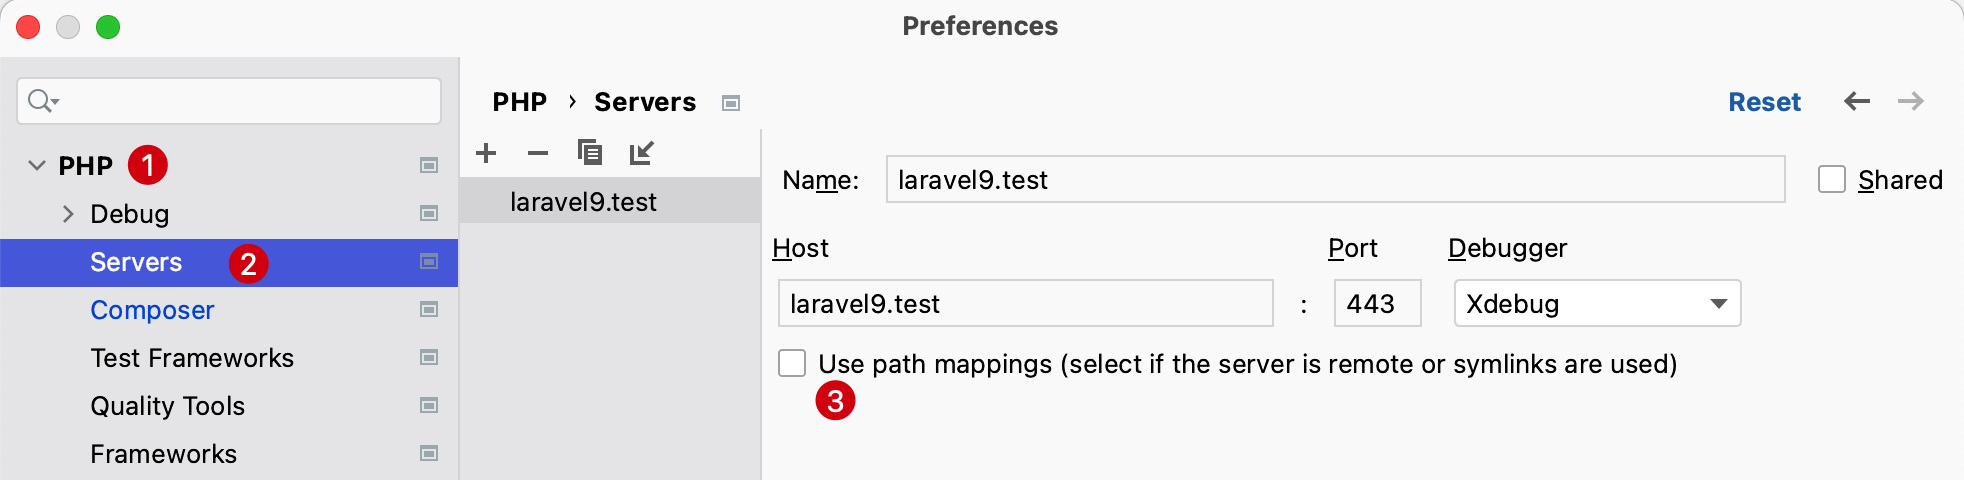
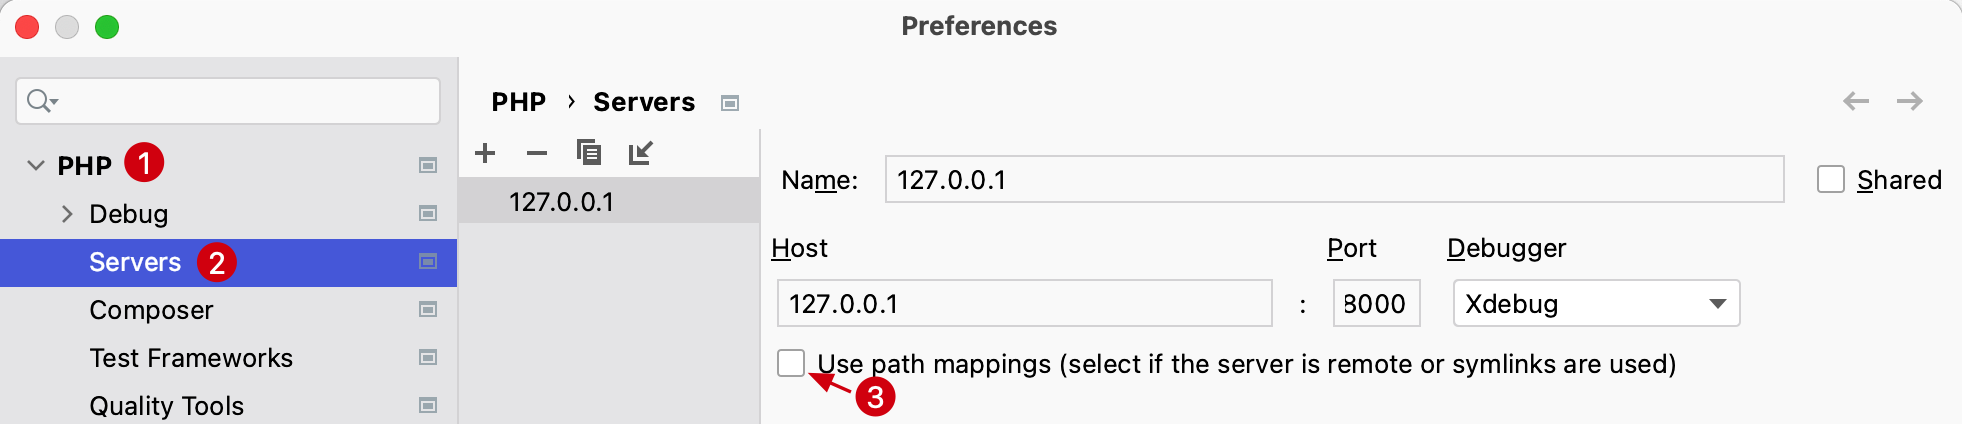
Update xdebug for laravel config

diff --git a/docs/guide/xdebug-for-laravel.md b/docs/guide/xdebug-for-laravel.md
@@ -1,6 +1,9 @@
 # Laravel 项目中使用 Xdebug
 
-PhpStorm 内置 Debug 调试支持 Xdebug 和 Zend Debugger，下面演示在 PhpStorm 中配合本地 PHP 开发环境使用 Xdebug 调试 Laravel 项目的流程。
+PhpStorm 内置 Debug 调试支持 Xdebug 和 Zend Debugger，下面演示在 PhpStorm 中配合本地 PHP 开发环境使用 Xdebug 调试 Laravel
+项目的流程。
+
+分别采用配置 `PHP Web Page` 和使用浏览器扩展或URL传递 `XDEBUG_SESSION` 参数的方式对项目进行调试。
 
 一些相关网址：
 
@@ -14,7 +17,120 @@ PhpStorm 内置 Debug 调试支持 Xdebug 和 Zend Debugger，下面演示在 Ph
     - [Edge](https://microsoftedge.microsoft.com/addons/detail/xdebug-helper/ggnngifabofaddiejjeagbaebkejomen)
 - [YouTube - Debugging With PhpStorm And Xdebug | Christoph Rumpel | phpday 2021](https://youtu.be/MFAfbNx4apA)
 
-## 预配置
+以下根据不同的请求方式分为两种不同的编辑器配置演示在 Laravel 项目中对 Xdebug 的支持。
+
+## 调试 GET 请求
+
+### 示例代码
+
+- 路由文件 `web`
+  ```php
+    <?php
+    use Illuminate\Support\Facades\Route;
+    use App\Http\Controllers\PostsController;
+
+    Route::post('/posts', [PostController::class, 'index']);  
+  ```
+
+- 仓库文件 `PostsRepository`
+    ```php
+    <?php
+
+    namespace App\Http\Controllers;
+
+    use App\Repositories\PostsRepository;
+
+    class PostController extends Controller
+    {
+        protected PostsRepository $postRepository;
+
+        public function __construct(PostsRepository $postsRepository)
+        {
+            $this->postRepository = $postsRepository;
+        }
+
+        public function index()
+        {
+            $posts = $this->postRepository->all();
+
+            return view('posts.index', compact('posts'));
+        }
+    }
+    ```
+- 控制器 `PostsController`
+    ```php
+    <?php
+
+    namespace App\Repositories;
+
+    class PostsRepository
+    {
+        public function all(): ?array
+        {
+            if (true) {
+                return null;
+            }
+
+            return ['post 1', 'post 2'];
+        }
+    }
+ 
+    ```
+
+站点调试 GET 请求相对配置较简单，可以通过一下流程：
+
+1. 安装并配置 Xdebug 3 到 PHP
+    1. 安装
+       首先，确保在本地 PHP 安装了 xdebug，使用命令 `php --version`，比如：
+
+       ![](./images/xdebug-for-laravel/show-xdebug-extension.png)
+
+       如果输出信息中没有看到 Xdebug 相关的信息，请来到 [Xdebug 安装向导](https://xdebug.org/wizard) 复制当前使用的 PHP
+       的 `phpinfo()` 并粘贴到向导中，按照说明进行操作。
+
+    2. 配置 Xdebug 3
+
+       通过 `php --ini`命令在输出中定位到 xdebug 配置文件路径或者直接将下面的配置放到 `php.ini` 配置中。
+       ```php
+       [opcache]
+       ;extension_dir=/opt/homebrew/lib/php/pecl/20210902
+       zend_extension="xdebug.so"
+       xdebug.mode=debug
+       xdebug.client_host=127.0.0.1
+       xdebug.client_port=9003
+       xdebug.log="/tmp/xdebug.log"
+       ```
+    3. 检查当前配置的PHP是否跟Laravel项目使用的PHP一致
+
+       比如，可以在Laravel 项目中打印一个 `phpinfo();` 检查一下 xdebug 配置
+
+2. 在编辑器顶部菜单选择 `Run` -> `Edit Configurations...` 打开编辑配置弹出窗
+3. 点击左上角的 + 号添加一个 **PHP Web Page**
+   ![](./images/xdebug-for-laravel/add-new-php-web-page-server-configuration.png)
+4. 在配置项中的 Server 段添加一个新的web服务配置，包括名称、URL和端口，以及Debugger选择 Xdebug
+   ![](./images/xdebug-for-laravel/add-new-server-configuration.png)
+5. 再回到 **PHP Web Page** 配置，将上一步配置的 Server选择上，并补充名称、起始URL等
+   ![](./images/xdebug-for-laravel/add-new-debug-configuration.png)
+
+6. 开始调试之前，在需要代码断点处添加断点。然后来到编辑器顶部菜单选择 `Run` -> `Debug '/posts'` 或者直接使用快捷键 Ctrl D。
+
+   可以看到浏览器上打开了对应的URL `http://127.0.0.1:8000/posts?XDEBUG_SESSION_START=10372`
+   并添加了默认的 `XDEBUG_SESSION_START` 参数。
+   此刻浏览器正在等待 PhpStorm 编辑器 Debug 的调试响应。
+
+   可以使用 `Step Into` 或者使用快捷键 F7 进入到 `PostsRepository` 类的 `all` 方法内部查看代码的执行逻辑。使用
+
+以上便是通过配置 `PHP Web Server` 的方式调试 Laravel 项目中的 GET 请求。
+
+这种方式调试 Laravel 项目的优点是简单直接，缺点也很明显就是如果需要调试其他路由则需要重新配置一个路由关系，比较繁琐。
+
+那么 PhpStorm 也支持监听 Debug 调试的功能，需要我们开启并正确传递 Cookie 或者请求参数即可。
+
+下面我们以调试 POST 请求演示一下另一种 Debug 调试的配置。
+
+## 调试 POST 请求
+
+### 预配置
 
 1. 安装并配置 Xdebug 3 到 PHP
     1. 安装
@@ -57,7 +173,7 @@ PhpStorm 内置 Debug 调试支持 Xdebug 和 Zend Debugger，下面演示在 Ph
           ![](./images/xdebug-for-laravel/phpstorm-xdebug-helper-chrome.png)
         - 右键点击 Xdebug Helper 图标，选择 `选项`，来到它的配置页面，选择 `PhpStorm` 并点击 `Save` 保存配置
           ![](./images/xdebug-for-laravel/phpstorm-xdebug-helper-chrome-settings.png)
-
+   > 这种方式是可选的，也可以通过URL传递参数 `XDEBUG_SESSION=PHPSTORM` 的方式触发 Debug 调试，只不过通过浏览插件的方式会更加直观。
 3. 配置 PhpStorm
 
    使用快捷键 `Command + ,` 来到 PhpStorm 系统便好设置，选择 `PHP` -> `Debug`，配置如下：
@@ -70,95 +186,109 @@ PhpStorm 内置 Debug 调试支持 Xdebug 和 Zend Debugger，下面演示在 Ph
 
 自此，预配置工作已经准备就绪，接下来看一下如何在项目中进行调试。
 
-## 在 Laravel 中调试
-
 ### 示例代码
 
 - 路由文件 `web`
 
     ```php
     <?php
-    
+    use Illuminate\Support\Facades\Route;
     use App\Http\Controllers\PostsController;
     
-    Route::get('/posts', [PostsController::class, 'index']); 
+    Route::post('/posts', [PostController::class, 'store']);
     ```
 
-
-- 模型文件 `Post`
+- 仓库文件 `PostsRepository`
 
     ```php
     <?php
-    
-    namespace App\Models;
-    
-    use Illuminate\Database\Eloquent\Casts\Attribute;
-    use Illuminate\Database\Eloquent\Factories\HasFactory;
-    use Illuminate\Database\Eloquent\Model;
-    
-    class Post extends Model
+
+    namespace App\Repositories;
+
+    class PostsRepository
     {
-        use HasFactory;
-    
-        public function latest(): ?Attribute
+        public function create(): array
         {
-            if (true) {
-                return Attribute::get(fn () => null);
-            }
-    
-            return Attribute::get(fn() => ['Post1', 'Post2']);
+            return [
+                'name' => 'post name',
+            ];
         }
     }
     ```
-
 
 - 控制器 `PostsController`
 
     ```php
     <?php
-    
+
     namespace App\Http\Controllers;
-    
-    use App\Models\Post;
-    
-    class PostsController extends Controller
+
+    use App\Repositories\PostsRepository;
+
+    class PostController extends Controller
     {
-        public function index()
+        protected PostsRepository $postRepository;
+
+        public function __construct(PostsRepository $postsRepository)
         {
-            $posts = app(Post::class)->latest;
-    
-            return $posts;
+            $this->postRepository = $postsRepository;
+        }
+
+        public function store()
+        {
+            $post = $this->postRepository->create();
+
+            return $post;
         }
     }
     ```
 
-当访问 `/posts` 路由时会交给控制器 `PostsController` 代码逻辑处理，在控制器中调用了模型 `Post` 的方法（当前这个方法返回的是不正确的）。
-                                                                    
+- 将路由地址添加 CSRF 忽略
+    ```php
+    <?php
+
+    namespace App\Http\Middleware;
+
+    use Illuminate\Foundation\Http\Middleware\VerifyCsrfToken as Middleware;
+
+    class VerifyCsrfToken extends Middleware
+    {
+        /**
+         * The URIs that should be excluded from CSRF verification.
+         *
+         * @var array<int, string>
+         */
+        protected $except = [
+            '/posts'
+        ];
+    }
+    ```
+
+当使用通过 POST 方式请求 `/posts` 路由时会交给控制器 `PostsController` 代码逻辑处理，在控制器中调用了 `PostsRepository`
+仓库的 `store` 方法。
+
 ### 新增断点
 
 在访问之前，还需要在代码逻辑中打上断点，比如在 `PostsController` 中新增一个断点，如下：
 
-![](./images/xdebug-for-laravel/create-new-breakpoint.gif)
+![](./images/xdebug-for-laravel/create-new-breakpoint.png)
 
 ### 开始调试
 
-在浏览器访问 `/posts` 这个**正确的地址**，此时浏览器应该停止在正在刷新的界面。
+通过 Curl 命令或 Postman 等工具访问 `/posts` 这个uri，**并添加请求参数 `?XDEBUG_SESSION=PHPSTORM`**，此时浏览器应该停止在正在刷新的界面后点击 `Accept`。
 
 ![](./images/xdebug-for-laravel/phpstorm-incoming-connection-from-xdebug.png)
 
-**注意：** 首次配置 PhpStorm 会弹出提示层，点击确认即可。此时，在系统偏好设置，`PHP` -> `Servers` 会添加上刚刚配置的信息，值得注意的是： `Use path mapping` 无需勾选。
+**注意：** 首次配置 PhpStorm 会弹出提示层，点击确认即可。此时，在系统偏好设置，`PHP` -> `Servers`
+会添加上刚刚配置的信息，值得注意的是： `Use path mapping` 无需勾选。
 ![](./images/xdebug-for-laravel/show-php-servers.png)
 
 再次访问浏览器，可以看到 PhpStorm Debug 调试功能界面一起弹出，此刻可以点击 `Step Over` 或者 `F8` 进入到将逻辑进入到下一行。
 ![](./images/xdebug-for-laravel/show-debug-variable.png)
 
-此时假如预期的 `latest` 返回的应该是一个 `Attribute` 对象，却得到一个 `null`，可以返回到模型中将 `latest` 代码中的逻辑修复，再此刷新浏览器进行调试。
-
-![](./images/xdebug-for-laravel/show-debug-variable-again.png)
-
-
 相比于在代码中添加 `dd()` 或者 `var_dump()` 打印变量的方式不同的是，使用 `xdebug` 调试代码能打印更多的变量、调用栈等信息，方便开发者进行分析。
 
 但是，由于需要额外添加很多浏览器插件下载和配置、编辑器配置，增加了门槛，带来的好处也显而易见。
 
-而对比通过在代码中添加代码打印的方式就简单许多，如何选择由开发者自行判断，希望大家能在实际开发中能把 xdebug 调试技术运用上，增加开发效率。
+而对比通过在代码中添加代码打印的方式就简单许多，如何选择由开发者自行判断，希望大家能在实际开发中能把 xdebug
+调试技术运用上，增加开发效率。
